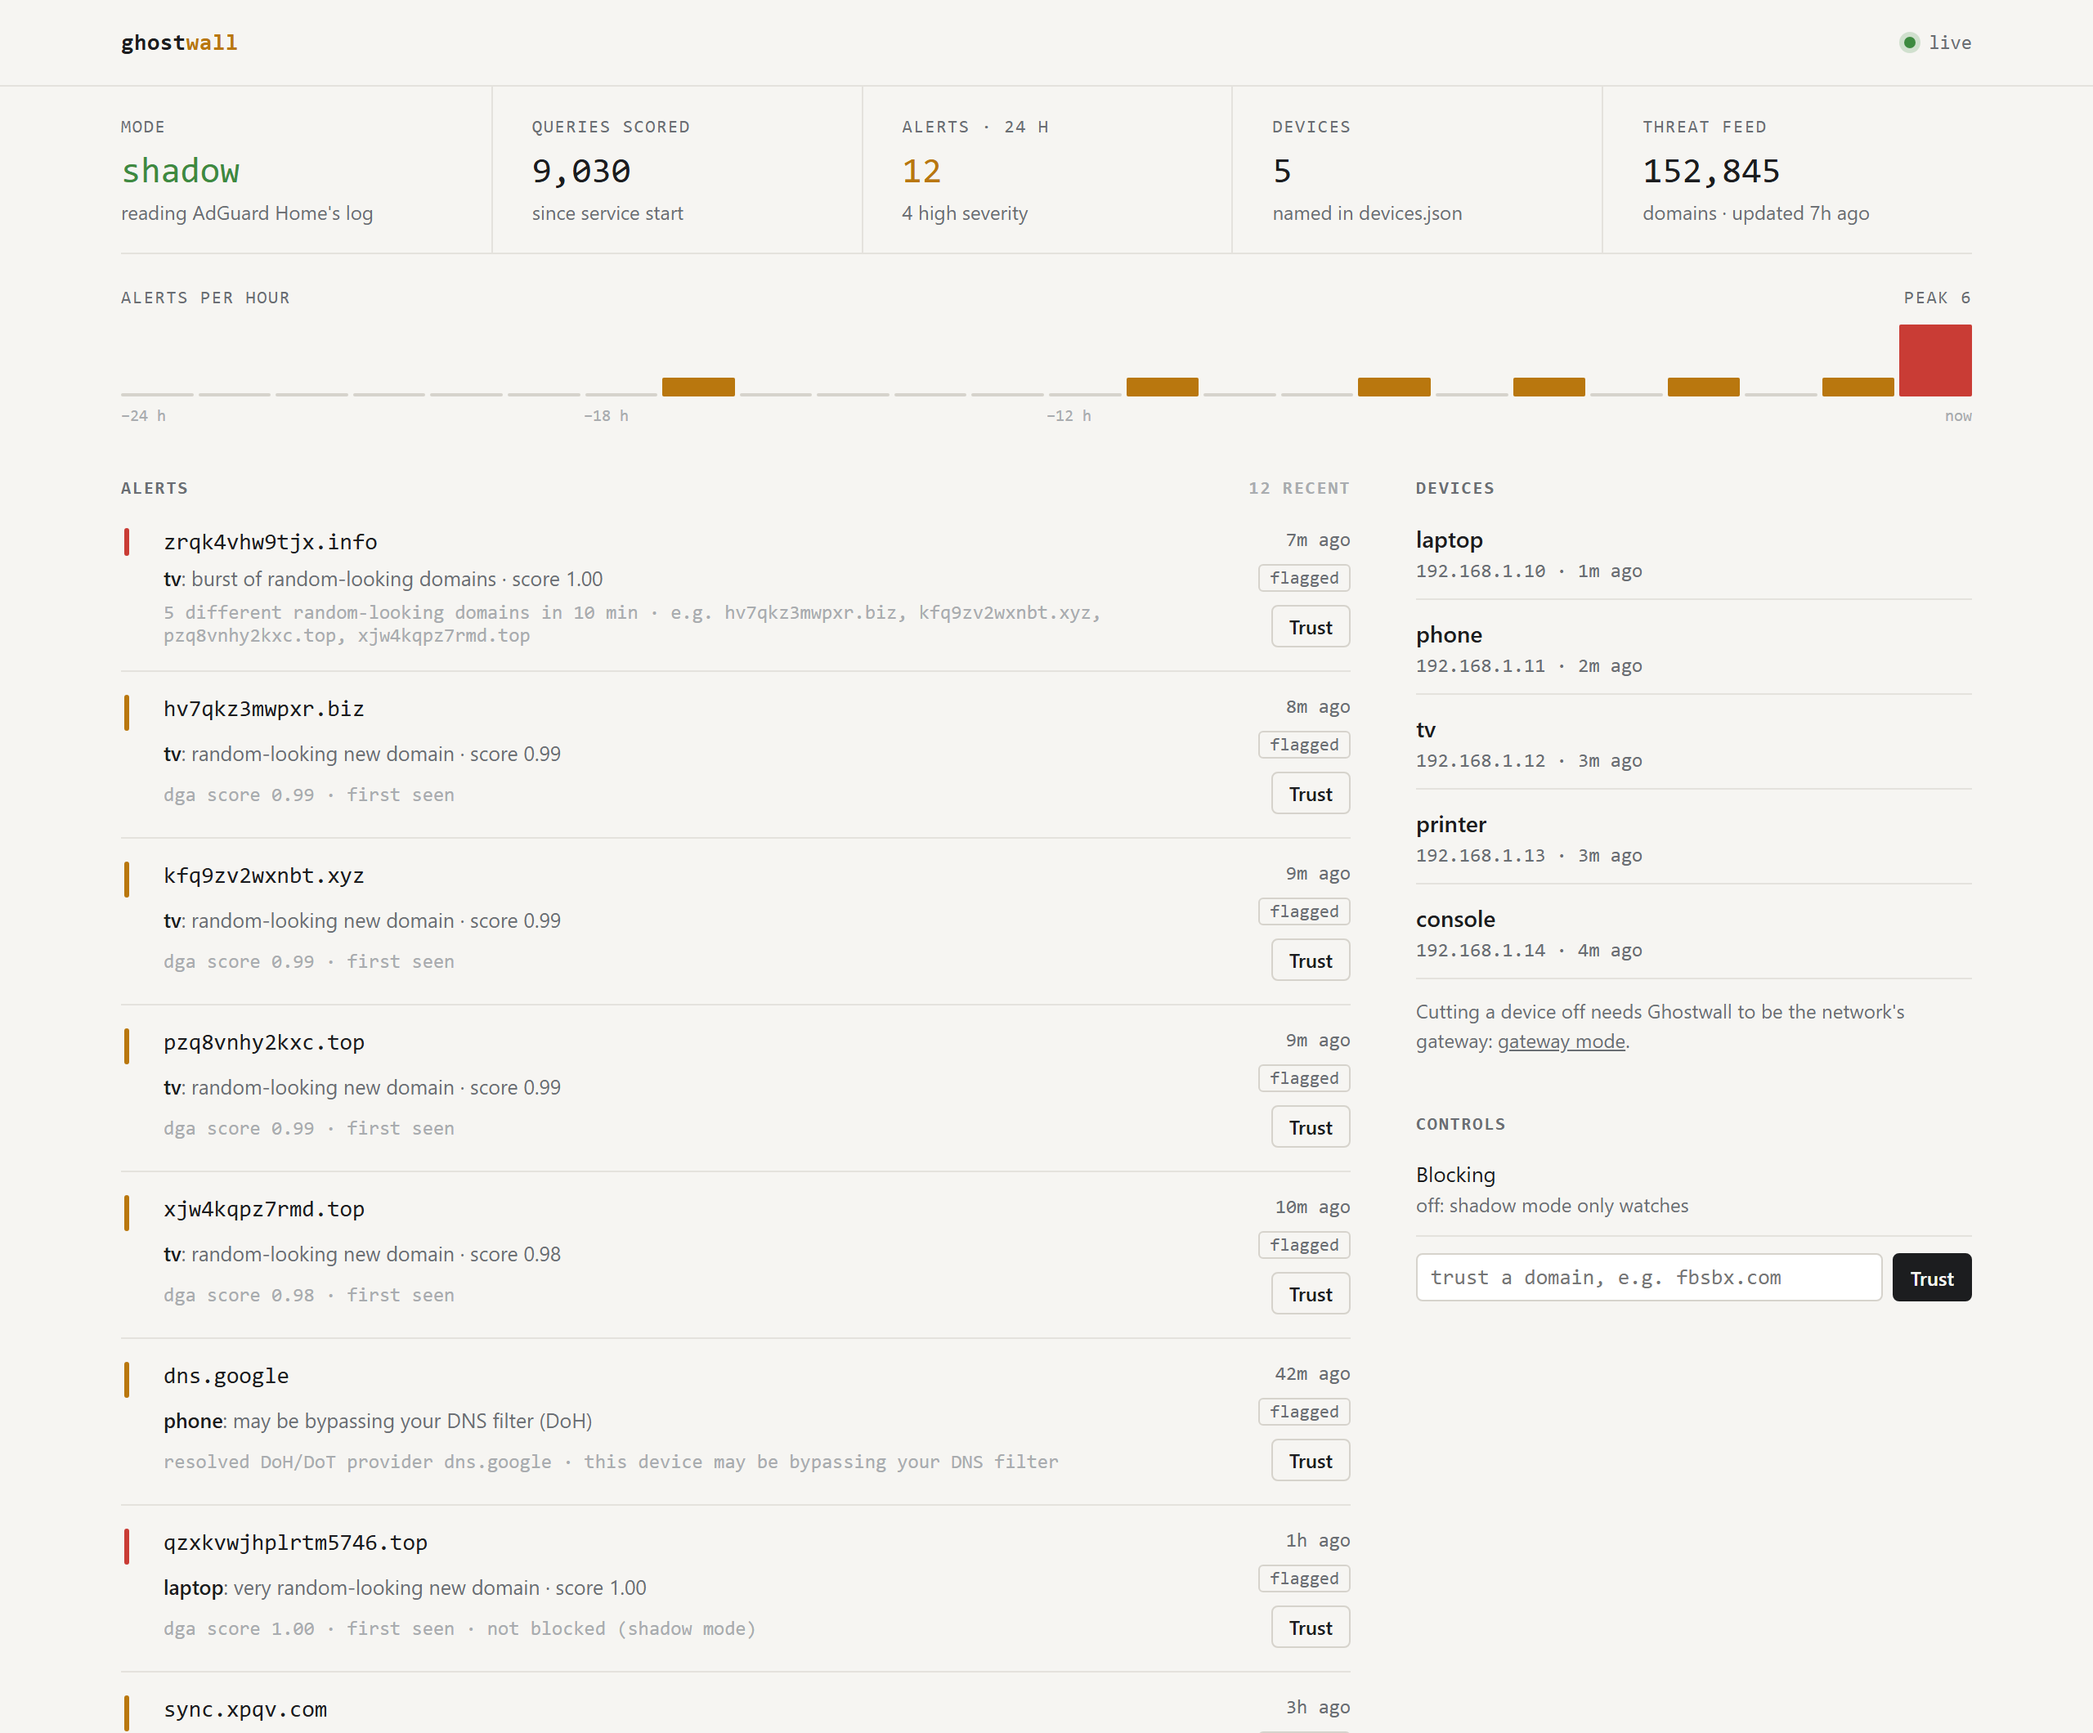
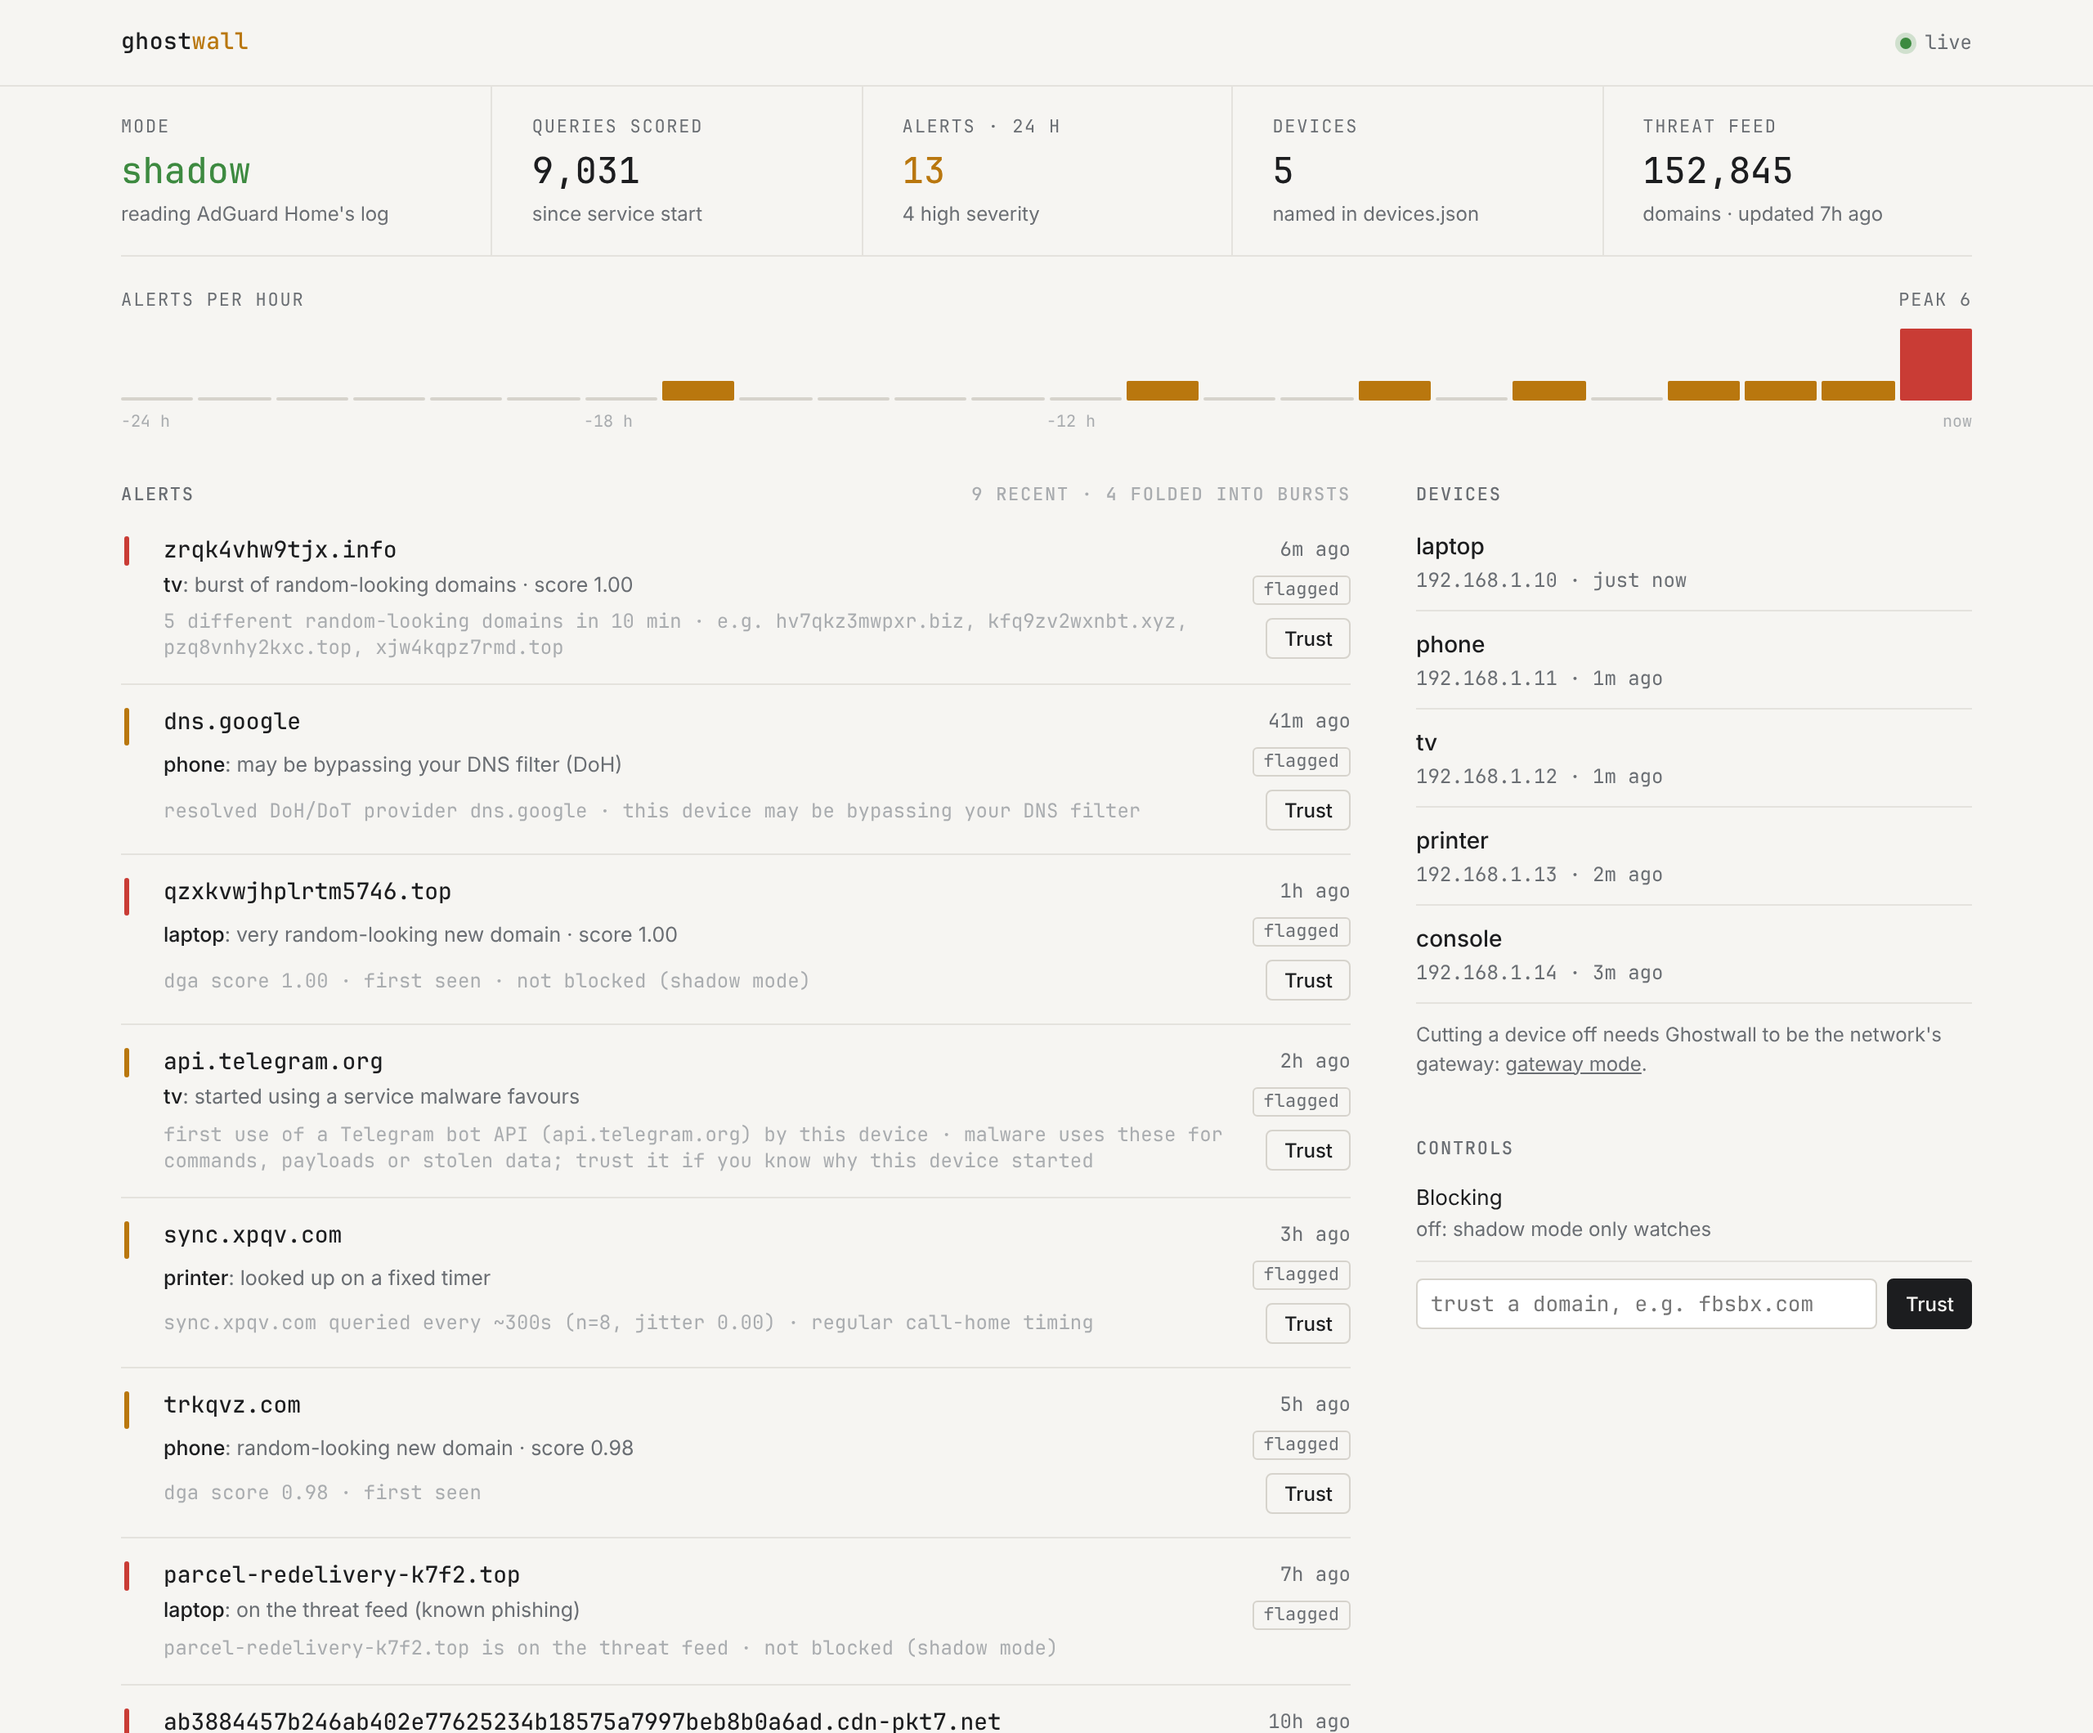
Roast round 13: the demo and screenshot didn't show the new rules; bursts took five rows
- make_demo runs the state on the demo day's clock with week-old devices, and
  adds the TV calling Telegram's bot API (abused_service) before its DGA burst;
  still every alert from the real detector (test unchanged, passes).
- The dashboard folds single-name DGA alerts that a burst already lists into
  the burst row ('4 folded into bursts').
- The demo control API remembers trusts (/trusted, /untrust).
- Screenshots regenerated (dark and light), no console errors.

Claude-Session: https://claude.ai/code/session_013Gmt3Cmfo3yVLFXeYDeLyF

diff --git a/agents/web_ui/index.html b/agents/web_ui/index.html
@@ -272,14 +272,20 @@ function renderEvents(evs) {
   $("bars").innerHTML = hours.map(n => `<i class="${n >= 3 ? "hot" : n ? "hit" : ""}" style="height:${n ? 12 + 88 * n / max : 4}%" title="${n} alert${n === 1 ? "" : "s"}"></i>`).join("");
   $("stripMax").textContent = "peak " + Math.max(...hours);
 
+  // A burst already names the random-looking names it was made of: fold that device's
+  // single-name alerts from the 10 minutes before it into the burst row.
+  const bursts = alerts.filter(e => e.rule === "dga_burst");
+  const covered = (e) => (e.rule === "dga_suspect" || e.rule === "dga_high") && bursts.some(b =>
+    b.device === e.device && Date.parse(e.time) <= Date.parse(b.time) && Date.parse(b.time) - Date.parse(e.time) <= 600e3);
+  const folded = alerts.filter(covered).length;
   // collapse repeats of the same device + domain + rule into one row (newest first)
   const groups = new Map();
-  for (const e of alerts) {
+  for (const e of alerts.filter(e => !covered(e))) {
     const k = e.device + "|" + e.domain + "|" + e.rule;
     if (groups.has(k)) groups.get(k).n++; else groups.set(k, { ...e, n: 1 });
   }
   const rows = [...groups.values()];
-  $("feedCount").textContent = rows.length ? rows.length + " recent" : "";
+  $("feedCount").textContent = rows.length ? rows.length + " recent" + (folded ? ` · ${folded} folded into bursts` : "") : "";
   $("feed").innerHTML = rows.map(e => {
     const score = e.scores && e.scores.dga != null ? ` · score ${e.scores.dga.toFixed(2)}` : "";
     const why = (e.reasons || []).slice(0, 3).join(" · ");

diff --git a/agents/web_ui/make_demo.py b/agents/web_ui/make_demo.py
@@ -56,6 +56,7 @@ def script(rng: random.Random) -> list[tuple[float, str, str]]:
                              "hv7qkz3mwpxr.biz", "zrqk4vhw9tjx.info"]):
         q.append((ago(9) + 45 * i, "tv", dom))
     q.append((ago(41), "phone", "dns.google"))                   # DNS-over-HTTPS
+    q.append((ago(130), "tv", "api.telegram.org"))               # the implant's commands, via a bot
     q.append((ago(96), "laptop", "qzxkvwjhplrtm5746.top"))       # one very random new name
     for i in range(12):                                          # a call-home every 5 minutes
         q.append((ago(240) + 300 * i, "printer", "sync.xpqv.com"))
@@ -94,6 +95,13 @@ def generate(seed: int = 7) -> dict:
 
     state = GhostState(cfg["state_path"], learning_default=True)
     state.load_allowlist_file(cfg["allowlist_path"])
+    # The demo day's own clock (a fixed date), and devices that have been on the network
+    # for a week, so per-device baselines (abused_service) are over, as they would be.
+    from datetime import datetime, timedelta, timezone
+    day0 = datetime(2026, 10, 30, tzinfo=timezone.utc)
+    state.clock = lambda: day0 + timedelta(seconds=clock["t"])
+    for d in DEVICES:
+        state.device_since[d["name"]] = (day0 - timedelta(days=7)).strftime("%Y-%m-%dT%H:%M:%SZ")
     scorer = Scorer(cfg["onnx_model"], cfg["lr_coef"], cfg["lr_meta"])
     memo: dict = {}
     score_one = scorer.score_one

diff --git a/agents/web_ui/demo.py b/agents/web_ui/demo.py
@@ -52,6 +52,7 @@ def sample_events(now: datetime, demo: dict | None = None) -> list[dict]:
 
 def fake_control(port: int, demo: dict) -> ThreadingHTTPServer:
     st = {"learning": True, "lockdown": False}
+    trusted: set[str] = set()   # what you "trust" in the demo, so the undo list works too
     now = datetime.now(timezone.utc)
     seen = {d["ip"]: iso(now - timedelta(seconds=20 + 40 * i)) for i, d in enumerate(DEVICES)}
 
@@ -80,8 +81,15 @@ def fake_control(port: int, demo: dict) -> ThreadingHTTPServer:
 
         def do_POST(self):
             body = json.loads(self.rfile.read(int(self.headers.get("Content-Length", 0))) or b"{}")
+            dom = str(body.get("domain", ""))
             if self.path == "/allow":
-                self._json({"ok": True, **body, "allowed": True})
+                trusted.add(dom)
+                self._json({"ok": True, "domain": dom, "allowed": True})
+            elif self.path == "/trusted":
+                self._json({"ok": True, "domains": sorted(trusted)})
+            elif self.path == "/untrust":
+                trusted.discard(dom)
+                self._json({"ok": True, "domain": dom, "allowed": False})
             else:  # as on a real shadow-mode install: nothing to isolate or lock down
                 self._json({"ok": False, "error": "enforcement is off (demo)"}, 409)
 
